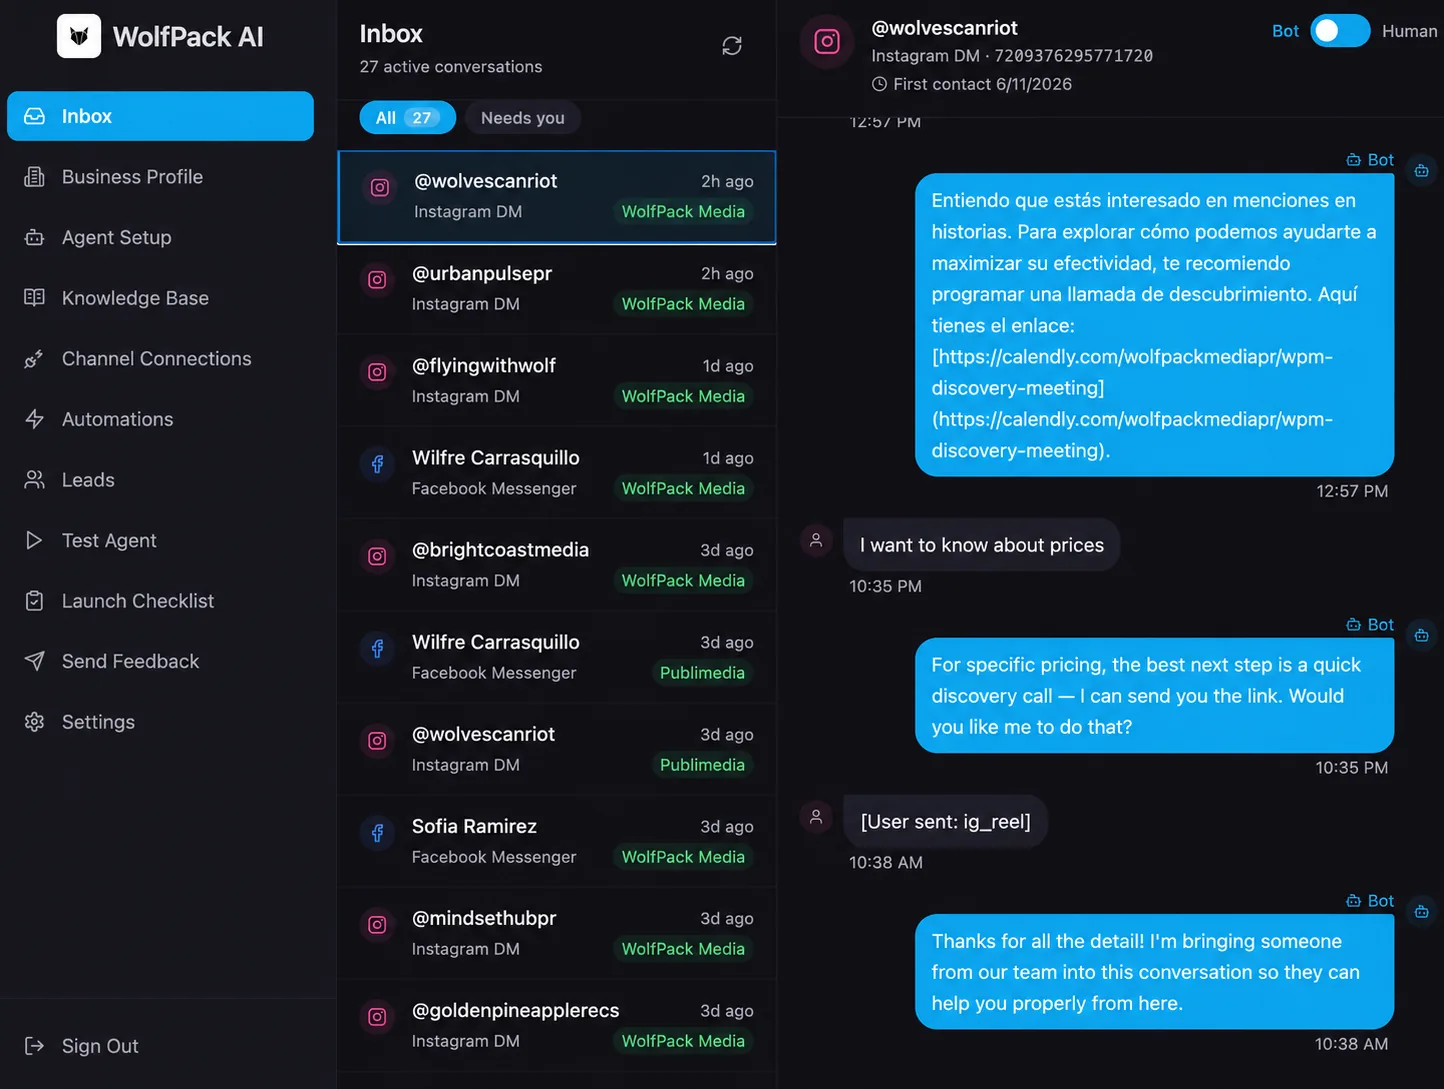
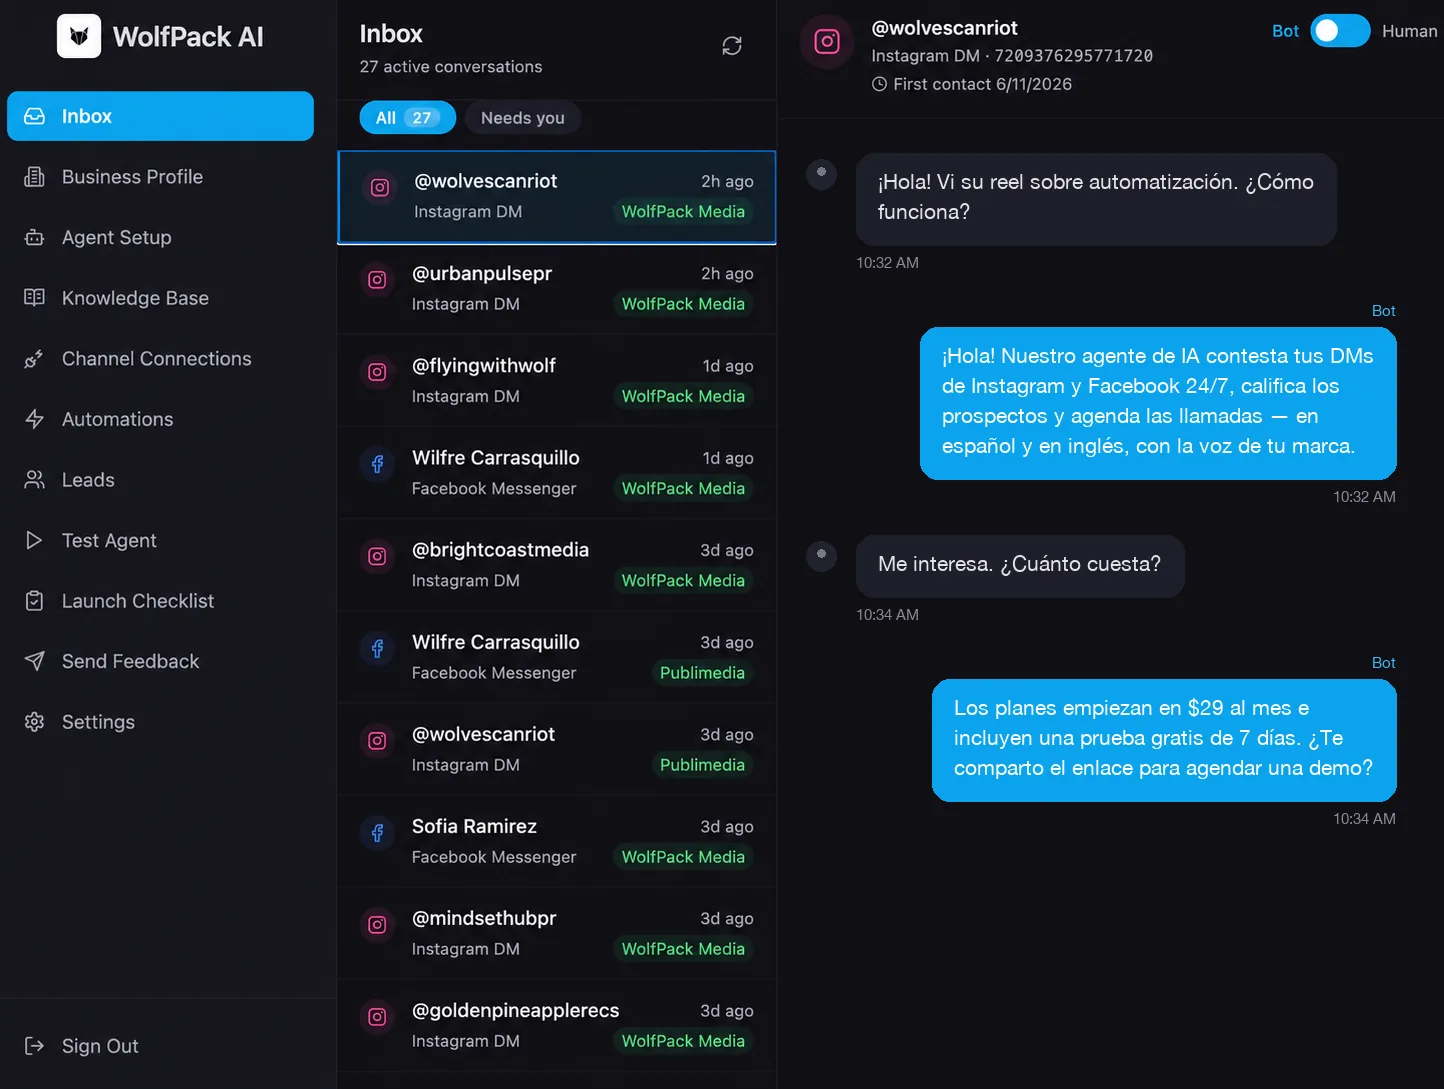
feat: repaint the hero screenshot's conversation, keeping the real UI
Keeps everything the screenshot is wanted for — sidebar, conversation list, the
real usernames, the Instagram and Facebook channel icons, the thread header and
the Bot/Human toggle — and repaints only the message panel.

Why repaint it at all: the captured thread showed the agent sending
`[https://calendly.com/...](https://calendly.com/...)`, a markdown link the
messenger renders raw. That is a real defect from before hard rule 12, and the
homepage is the last place to display the product emitting a broken link. The
old thread also told no story: a truncated pricing deflection and a handoff.

The replacement is a four-message arc that ends somewhere — question, a specific
answer, price, booking — and it is in Spanish, which makes the subheadline's
"in English and Spanish" claim visible rather than asserted.

`scripts/compose-hero-mockup.py` is committed alongside the asset so the panel
can be re-rendered from the original capture with different copy instead of
being re-edited by hand. Every coordinate and colour in it was sampled from the
source image rather than guessed: panel edge x=778, header divider y=118,
bubble fill (11,163,237), background (16,15,21).

92 KB WebP at q82, PSNR 46.4 dB.

Claude-Session: https://claude.ai/code/session_01Be8nYHpNWdcTvHgWqiWqu1

diff --git a/scripts/compose-hero-mockup.py b/scripts/compose-hero-mockup.py
@@ -1,0 +1,98 @@
+"""Repaint the conversation panel of the supplied inbox screenshot.
+
+Keeps everything Wilf asked to keep — sidebar, conversation list, usernames,
+Instagram/Facebook logos, the thread header and the Bot/Human toggle — and
+replaces only the message area (right panel, below the header divider).
+"""
+from PIL import Image, ImageDraw, ImageFont
+
+SRC = "/Users/wilfredocarrasquillo/Downloads/WPM AI CHAT SCREEN SHOT FOR WEBSITE MOCKUP.png"
+OUT = "/private/tmp/claude-501/-Users-wilfredocarrasquillo/c228428a-ee0a-44d0-8ff4-009615d13a76/scratchpad/hero-inbox-composed.png"
+
+# Measured from the source image, not guessed.
+PANEL_X0, PANEL_Y0 = 778, 119          # thread panel left edge / below header divider
+BG = (16, 15, 21)
+BOT_FILL = (11, 163, 237)              # sampled from the existing blue bubble
+USER_FILL = (31, 30, 42)
+BOT_TEXT = (255, 255, 255)
+USER_TEXT = (226, 226, 229)
+MUTED = (138, 138, 150)
+
+RIGHT_EDGE = 1396
+LEFT_EDGE = 856
+AVATAR_X = 806
+MAX_BUBBLE = 480
+
+font_body = ImageFont.truetype("/System/Library/Fonts/HelveticaNeue.ttc", 21, index=0)
+font_small = ImageFont.truetype("/System/Library/Fonts/HelveticaNeue.ttc", 15, index=0)
+
+im = Image.open(SRC).convert("RGB")
+d = ImageDraw.Draw(im)
+
+# Wipe the message area only. Starts above the divider because a stray
+# timestamp from the old thread sits just under the header and leaves the tops
+# of its glyphs behind otherwise; the divider is redrawn at its measured y.
+d.rectangle([PANEL_X0, 103, im.size[0], im.size[1]], fill=BG)
+d.line([(PANEL_X0, 118), (im.size[0], 118)], fill=(27, 26, 35), width=1)
+
+
+def wrap(text, font, max_w):
+    words, lines, cur = text.split(), [], ""
+    for w in words:
+        trial = f"{cur} {w}".strip()
+        if d.textlength(trial, font=font) <= max_w:
+            cur = trial
+        else:
+            if cur:
+                lines.append(cur)
+            cur = w
+    if cur:
+        lines.append(cur)
+    return lines
+
+
+MESSAGES = [
+    ("user", "¡Hola! Vi su reel sobre automatización. ¿Cómo funciona?", "10:32 AM"),
+    ("bot", "¡Hola! Nuestro agente de IA contesta tus DMs de Instagram y Facebook 24/7, "
+            "califica los prospectos y agenda las llamadas — en español y en inglés, "
+            "con la voz de tu marca.", "10:32 AM"),
+    ("user", "Me interesa. ¿Cuánto cuesta?", "10:34 AM"),
+    ("bot", "Los planes empiezan en $29 al mes e incluyen una prueba gratis de 7 días. "
+            "¿Te comparto el enlace para agendar una demo?", "10:34 AM"),
+]
+
+PAD_X, PAD_Y, LINE_H, GAP = 22, 16, 30, 34
+y = PANEL_Y0 + 34
+
+for role, text, stamp in MESSAGES:
+    lines = wrap(text, font_body, MAX_BUBBLE - 2 * PAD_X)
+    tw = max(d.textlength(l, font=font_body) for l in lines)
+    bw = int(tw) + 2 * PAD_X
+    bh = len(lines) * LINE_H + 2 * PAD_Y
+
+    if role == "bot":
+        # "Bot" label above, right aligned, like the source
+        lw = d.textlength("Bot", font=font_small)
+        d.text((RIGHT_EDGE - lw, y), "Bot", font=font_small, fill=(56, 189, 248))
+        y += 26
+        x1 = RIGHT_EDGE
+        x0 = x1 - bw
+        d.rounded_rectangle([x0, y, x1, y + bh], radius=18, fill=BOT_FILL)
+        for i, l in enumerate(lines):
+            d.text((x0 + PAD_X, y + PAD_Y + i * LINE_H), l, font=font_body, fill=BOT_TEXT)
+        sw = d.textlength(stamp, font=font_small)
+        d.text((RIGHT_EDGE - sw, y + bh + 8), stamp, font=font_small, fill=MUTED)
+    else:
+        # small round avatar, as in the source
+        d.ellipse([AVATAR_X, y + 6, AVATAR_X + 30, y + 36], fill=(34, 34, 44))
+        d.ellipse([AVATAR_X + 11, y + 14, AVATAR_X + 19, y + 22], fill=(120, 120, 132))
+        x0 = LEFT_EDGE
+        d.rounded_rectangle([x0, y, x0 + bw, y + bh], radius=18, fill=USER_FILL)
+        for i, l in enumerate(lines):
+            d.text((x0 + PAD_X, y + PAD_Y + i * LINE_H), l, font=font_body, fill=USER_TEXT)
+        d.text((x0, y + bh + 8), stamp, font=font_small, fill=MUTED)
+
+    y += bh + GAP + 22
+
+im.save(OUT)
+print("wrote", OUT, im.size, "last y =", y)
